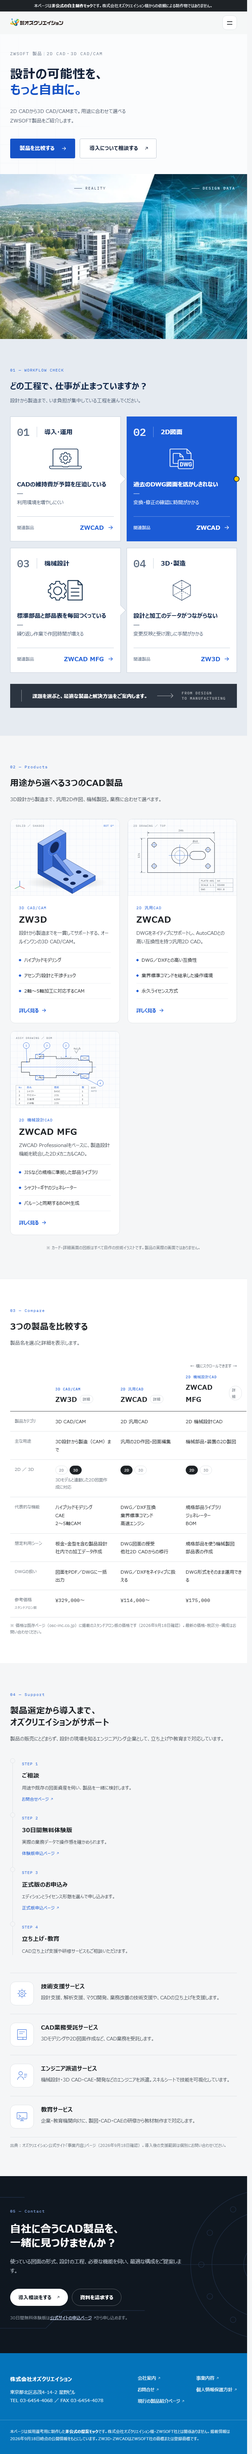
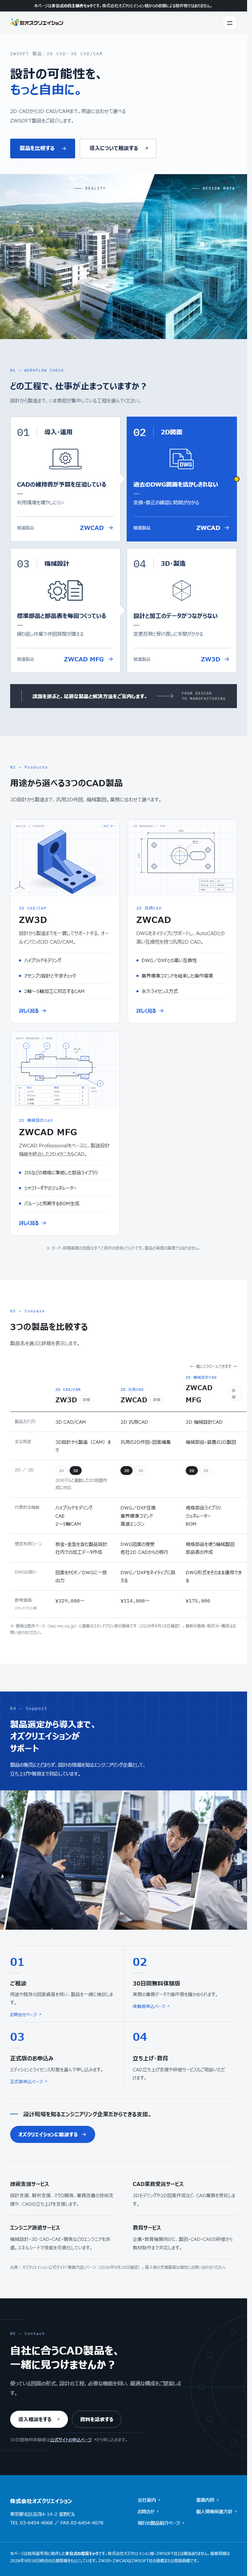
refactor: redesign support section as a photo-led journey band
Replace the icon-card "SaaS template" look of #support with a design
that reads as hands-on, ongoing engineering support rather than a
one-time sale.

- Full-bleed blue/photo band (901px+: 38-42%/58-62% side-by-side with
  a subtle diagonal seam; <=900px: stacked, heading never over photo)
  using an opaque brand-blue (--accent-ink) with a faint CAD grid,
  reusing existing blue/navy/white tokens only
- New support-journey photo strip (assets/support/, responsive
  WebP 640/1000/1440/2000w + JPG, alt text does not claim real staff)
- 4-step process rebuilt as large numbered items (CSS counters) with
  a thin rule, name, description, and text link only where one
  exists - no rounded cards, no icon chips; column rules only between
  items (4-col -> 2x2 at <=900px -> 1-col with number+text side by
  side at <=640px), all inside an <ol> for real order semantics
- New summary bar (existing copy) with the existing .btn.btn-primary
  CTA, still linking to the same contact page
- Existing 4 services kept, restyled as a plain heading/description
  index with thin dividers (2 col -> 1 col at <=640px); their icons
  are dropped per the requested "editorial index" treatment
- Removed the icon-service JS/CSS/SVG (service() in visuals.js,
  .service-fig/.svc-svg) and the old scroll-driven timeline-dot JS
  (data-flow/data-flow-fill) now that no matching markup exists;
  also removed the now-unused .br-md rule (its only caller was the
  old support heading)
[…]

diff --git a/css/style.css b/css/style.css
@@ -102,8 +102,6 @@ ul, ol { padding: 0; list-style: none; }
 }
 .svg-mono { font-family: var(--mono); }
 .svg-jp { font-family: var(--font); }
-.br-md { display: none; }
-@media (min-width: 768px) { .br-md { display: inline; } }
 
 .fig-note {
   font-size: 12px; line-height: 1.7; color: var(--ink-3);
@@ -724,57 +722,127 @@ div.hero-actions.load-in { display: flex; }
 }
 
 /* ---------- Support ---------- */
-.flow { position: relative; margin-bottom: clamp(48px, 7vw, 80px); }
-.flow-track {
-  position: absolute; left: 0; right: 0; top: 7px; height: 1px; background: var(--line);
+.support-band {
+  --support-blue: var(--accent-ink);
+  position: relative;
+  display: flex; align-items: stretch;
+  min-height: clamp(440px, 40vw, 560px);
+  background: var(--support-blue);
 }
-.flow-track span {
-  display: block; height: 100%; background: var(--accent);
-  transform: scaleX(var(--flow, 0)); transform-origin: left;
+.support-band-copy {
+  position: relative; overflow: hidden;
+  flex: 0 1 40%; min-width: 320px;
+  display: flex; align-items: center;
+  padding: clamp(40px, 5vw, 64px) clamp(28px, 4vw, 56px);
 }
-.flow-steps { display: grid; grid-template-columns: repeat(4, minmax(0, 1fr)); gap: 28px; }
-.flow-steps li { position: relative; padding-top: 36px; }
-.flow-steps li::before {
-  content: ""; position: absolute; top: 0; left: 0; width: 15px; height: 15px;
-  border-radius: 50%; background: var(--bg); border: 1.5px solid var(--line);
-  transition: border-color .4s, background-color .4s;
+.support-band-copy::before {
+  content: ""; position: absolute; inset: 0; pointer-events: none;
+  background-image:
+    linear-gradient(rgba(255, 255, 255, .07) 1px, transparent 1px),
+    linear-gradient(90deg, rgba(255, 255, 255, .07) 1px, transparent 1px);
+  background-size: 44px 44px;
+  -webkit-mask-image: linear-gradient(180deg, #000 0%, rgba(0, 0, 0, .5) 70%, transparent 100%);
+  mask-image: linear-gradient(180deg, #000 0%, rgba(0, 0, 0, .5) 70%, transparent 100%);
 }
-.flow-steps li.is-on::before { border-color: var(--accent); background: var(--accent); box-shadow: 0 0 0 5px var(--accent-tint); }
-.flow-no { font-family: var(--mono); font-size: 11.5px; letter-spacing: .12em; color: var(--accent); }
-.flow-steps h3 { margin-top: 6px; font-size: 18px; font-weight: 600; }
-.flow-steps p { margin-top: 8px; font-size: 14px; color: var(--ink-2); line-height: 1.8; }
-.flow-steps a { display: inline-block; margin-top: 10px; font-size: 13px; color: var(--accent); text-decoration: none; }
-.flow-steps a:hover { text-decoration: underline; }
+.support-band-copy-in { position: relative; z-index: 1; max-width: 440px; }
+.support-eyebrow {
+  font-family: var(--mono); font-size: 12.5px; letter-spacing: .16em; color: #a9c3f6;
+}
+.support-band-copy h2 {
+  margin-top: 18px;
+  font-size: clamp(26px, 2.6vw, 36px); line-height: 1.4; font-weight: 700;
+  color: #fff; letter-spacing: .02em; font-feature-settings: "palt" 1;
+  word-break: keep-all; overflow-wrap: anywhere;
+}
+.support-lead {
+  margin-top: 20px; max-width: 30em;
+  font-size: 14.5px; line-height: 1.9; color: rgba(255, 255, 255, .84);
+  word-break: keep-all; overflow-wrap: anywhere;
+}
+.support-band-photo {
+  flex: 1 1 60%; position: relative; margin: 0; overflow: hidden;
+  clip-path: polygon(3.5% 0, 100% 0, 100% 100%, 0 100%);
+}
+.support-band-photo picture,
+.support-band-photo img { display: block; width: 100%; height: 100%; object-fit: cover; object-position: 56% center; }
 
-.services {
-  display: grid; grid-template-columns: repeat(2, minmax(0, 1fr));
+/* ---------- Support: 4-step process ---------- */
+.support-steps {
+  counter-reset: step;
+  display: grid; grid-template-columns: repeat(4, minmax(0, 1fr));
+  border-top: 1px solid var(--line);
+  margin-top: clamp(48px, 6vw, 72px);
+}
+.support-step {
+  counter-increment: step;
+  padding: 32px 28px 8px 0;
+}
+.support-step + .support-step { padding-left: 28px; }
+.support-step:not(:last-child) { border-right: 1px solid var(--line); }
+.support-step-mark {
+  font-size: clamp(32px, 2.9vw, 42px); line-height: 1; font-weight: 700;
+  color: var(--accent); letter-spacing: .01em;
+}
+.support-step-mark::before { content: counter(step, decimal-leading-zero); }
+.support-step-mark::after {
+  content: ""; display: block; width: 32px; height: 2px; margin-top: 18px; background: var(--line);
+}
+.support-step-body h3 { margin-top: 18px; font-size: 17px; font-weight: 700; line-height: 1.5; }
+.support-step-body p { margin-top: 8px; font-size: 14px; line-height: 1.8; color: var(--ink-2); }
+.support-step-body a {
+  display: inline-flex; align-items: center; margin-top: 12px;
+  font-size: 13px; color: var(--accent); text-decoration: none;
+}
+.support-step-body a:hover, .support-step-body a:focus-visible { text-decoration: underline; }
+
+/* ---------- Support: summary bar ---------- */
+.support-summary {
+  display: flex; flex-wrap: wrap; align-items: center; justify-content: space-between; gap: 20px 28px;
+  margin-top: clamp(28px, 4vw, 40px); padding-top: clamp(28px, 4vw, 40px);
   border-top: 1px solid var(--line);
 }
-.service {
-  display: grid; grid-template-columns: 72px 1fr; gap: 22px; align-items: start;
-  padding: 32px 28px 32px 0; border-bottom: 1px solid var(--line);
+.support-summary-text {
+  display: flex; align-items: center; gap: 16px;
+  font-size: 17px; font-weight: 600; color: var(--ink); max-width: 30em;
 }
-.service:nth-child(2n) { padding-left: 28px; padding-right: 0; border-left: 1px solid var(--line); }
-.service-fig {
-  width: 72px; height: 72px; border-radius: 16px; background: var(--paper);
-  border: 1px solid var(--line); color: var(--accent); display: grid; place-items: center;
-}
-.svc-svg { width: 44px; height: 44px; }
-.service h3 { font-size: 18px; font-weight: 600; line-height: 1.5; }
-.service p { margin-top: 8px; font-size: 14.5px; color: var(--ink-2); }
+.support-summary-mark { flex: none; width: 24px; height: 2px; background: var(--accent); }
 
-@media (max-width: 860px) {
-  .flow-track { left: 7px; right: auto; top: 0; bottom: 0; width: 1px; height: auto; }
-  .flow-track span { width: 100%; height: 100%; transform: scaleY(var(--flow, 0)); transform-origin: top; }
-  .flow-steps { grid-template-columns: 1fr; gap: 28px; }
-  .flow-steps li { padding-top: 0; padding-left: 36px; }
-  .services { grid-template-columns: 1fr; }
-  .service, .service:nth-child(2n) { padding: 26px 0; border-left: 0; }
+/* ---------- Support: services index ---------- */
+.services {
+  display: grid; grid-template-columns: repeat(2, minmax(0, 1fr)); column-gap: 56px;
+  margin-top: clamp(56px, 7vw, 80px); padding-top: clamp(28px, 4vw, 40px);
+  border-top: 1px solid var(--line);
 }
-@media (max-width: 480px) {
-  .service { grid-template-columns: 56px 1fr; gap: 16px; }
-  .service-fig { width: 56px; height: 56px; border-radius: 12px; }
-  .svc-svg { width: 34px; height: 34px; }
+.service { padding: 22px 0; border-bottom: 1px solid var(--line); }
+.service h3 { font-size: 16px; font-weight: 700; }
+.service p { margin-top: 8px; font-size: 14px; line-height: 1.8; color: var(--ink-2); }
+
+@media (max-width: 900px) {
+  .support-band { flex-direction: column; min-height: 0; }
+  .support-band-copy { flex: none; width: 100%; min-width: 0; padding: 40px var(--gutter) 36px; }
+  .support-band-copy-in { max-width: 520px; }
+  .support-band-photo {
+    flex: none; width: 100%; aspect-ratio: 16 / 9;
+    clip-path: none;
+  }
+  .support-steps { grid-template-columns: repeat(2, minmax(0, 1fr)); }
+  .support-step:nth-child(2n) { border-right: 0; padding-left: 28px; }
+  .support-step:nth-child(2n+1) { padding-left: 0; }
+  .support-step:nth-child(n+3) { border-top: 1px solid var(--line); padding-top: 28px; }
+}
+@media (max-width: 640px) {
+  .support-band-copy h2 { font-size: 26px; }
+  .support-steps { grid-template-columns: 1fr; border-top: 1px solid var(--line); }
+  .support-step {
+    display: grid; grid-template-columns: 60px 1fr; column-gap: 18px;
+    padding: 26px 0 !important; border-right: 0 !important;
+  }
+  .support-step:not(:first-child) { border-top: 1px solid var(--line); }
+  .support-step-mark { font-size: 28px; }
+  .support-step-mark::after { margin-top: 14px; }
+  .support-summary { flex-direction: column; align-items: flex-start; }
+  .support-summary .btn { width: 100%; }
+  .services { grid-template-columns: 1fr; column-gap: 0; }
 }
 
 /* ---------- Final CTA ---------- */

diff --git a/index.html b/index.html
@@ -186,51 +186,81 @@
 
     <!-- SECTION 07 | Support -->
     <section class="section support" id="support" aria-labelledby="support-title">
-      <div class="container">
-        <header class="section-head reveal">
-          <p class="sec-no">04 — Support</p>
-          <h2 id="support-title">製品選定から導入まで、<wbr><br class="br-md">オズクリエイションが<wbr>サポート</h2>
-          <p class="sec-lead">製品の販売にとどまらず、設計の現場を知るエンジニアリング企業として、立ち上げや教育まで対応しています。</p>
-        </header>
+      <div class="support-band reveal">
+        <div class="support-band-copy">
+          <div class="support-band-copy-in">
+            <p class="support-eyebrow">04 — Support</p>
+            <h2 id="support-title">製品選定から導入まで、<br>オズクリエイションが<br>サポート</h2>
+            <p class="support-lead">製品の販売にとどまらず、設計の現場を知るエンジニアリング企業として、立ち上げや教育まで対応しています。</p>
+          </div>
+        </div>
+        <figure class="support-band-photo">
+          <picture>
+            <source type="image/webp"
+              srcset="assets/support/support-journey-640.webp 640w, assets/support/support-journey-1000.webp 1000w, assets/support/support-journey-1440.webp 1440w, assets/support/support-journey-2000.webp 2000w"
+              sizes="(max-width: 900px) 100vw, 62vw">
+            <img src="assets/support/support-journey-1440.jpg" width="1440" height="540"
+              alt="CAD画面と図面を確認しながら導入支援を行うイメージ" loading="lazy" decoding="async">
+          </picture>
+        </figure>
+      </div>
 
-        <div class="flow reveal" data-flow>
-          <div class="flow-track" aria-hidden="true"><span data-flow-fill></span></div>
-          <ol class="flow-steps">
-            <li><span class="flow-no">STEP 1</span><h3>ご相談</h3><p>用途や既存の図面資産を伺い、製品を一緒に検討します。</p><a href="https://www.osc-inc.co.jp/お問合せ/" target="_blank" rel="noopener">お問合せページ<span class="ext" aria-hidden="true"></span></a></li>
-            <li><span class="flow-no">STEP 2</span><h3>30日間無料体験版</h3><p>実際の業務データで操作感を確かめられます。</p><a href="https://www.osc-inc.co.jp/zwtrial/" target="_blank" rel="noopener">体験版申込ページ<span class="ext" aria-hidden="true"></span></a></li>
-            <li><span class="flow-no">STEP 3</span><h3>正式版のお申込み</h3><p>エディションとライセンス形態を選んで申し込みます。</p><a href="https://www.osc-inc.co.jp/zw_product_apply/" target="_blank" rel="noopener">正式版申込ページ<span class="ext" aria-hidden="true"></span></a></li>
-            <li><span class="flow-no">STEP 4</span><h3>立ち上げ・教育</h3><p>CAD立ち上げ支援や研修サービスもご相談いただけます。</p></li>
-          </ol>
+      <div class="container">
+        <ol class="support-steps">
+          <li class="support-step reveal" style="--i:0">
+            <div class="support-step-mark" aria-hidden="true"></div>
+            <div class="support-step-body">
+              <h3>ご相談</h3>
+              <p>用途や既存の図面資産を伺い、製品を一緒に検討します。</p>
+              <a href="https://www.osc-inc.co.jp/お問合せ/" target="_blank" rel="noopener">お問合せページ<span class="ext" aria-hidden="true"></span></a>
+            </div>
+          </li>
+          <li class="support-step reveal" style="--i:1">
+            <div class="support-step-mark" aria-hidden="true"></div>
+            <div class="support-step-body">
+              <h3>30日間無料体験版</h3>
+              <p>実際の業務データで操作感を確かめられます。</p>
+              <a href="https://www.osc-inc.co.jp/zwtrial/" target="_blank" rel="noopener">体験版申込ページ<span class="ext" aria-hidden="true"></span></a>
+            </div>
+          </li>
+          <li class="support-step reveal" style="--i:2">
+            <div class="support-step-mark" aria-hidden="true"></div>
+            <div class="support-step-body">
+              <h3>正式版のお申込み</h3>
+              <p>エディションとライセンス形態を選んで申し込みます。</p>
+              <a href="https://www.osc-inc.co.jp/zw_product_apply/" target="_blank" rel="noopener">正式版申込ページ<span class="ext" aria-hidden="true"></span></a>
+            </div>
+          </li>
+          <li class="support-step reveal" style="--i:3">
+            <div class="support-step-mark" aria-hidden="true"></div>
+            <div class="support-step-body">
+              <h3>立ち上げ・教育</h3>
+              <p>CAD立ち上げ支援や研修サービスもご相談いただけます。</p>
+            </div>
+          </li>
+        </ol>
+
+        <div class="support-summary reveal">
+          <p class="support-summary-text"><span class="support-summary-mark" aria-hidden="true"></span>設計現場を知るエンジニアリング企業だからできる支援。</p>
+          <a class="btn btn-primary" href="https://www.osc-inc.co.jp/お問合せ/" target="_blank" rel="noopener">オズクリエイションに相談する<svg class="i" viewBox="0 0 24 24" aria-hidden="true"><path d="M5 12h14M13 6l6 6-6 6"/></svg><span class="sr-only">（公式サイト・別タブ）</span></a>
         </div>
 
         <div class="services">
           <article class="service reveal" style="--i:0">
-            <div class="service-fig" data-visual="svc-tech" aria-hidden="true"></div>
-            <div>
-              <h3>技術支援サービス</h3>
-              <p>設計支援、解析支援、マクロ開発、業務改善の技術支援や、CADの立ち上げを支援します。</p>
-            </div>
+            <h3>技術支援サービス</h3>
+            <p>設計支援、解析支援、マクロ開発、業務改善の技術支援や、CADの立ち上げを支援します。</p>
           </article>
           <article class="service reveal" style="--i:1">
-            <div class="service-fig" data-visual="svc-contract" aria-hidden="true"></div>
-            <div>
-              <h3>CAD業務受託サービス</h3>
-              <p>3Dモデリングや2D図面作成など、CAD業務を受託します。</p>
-            </div>
+            <h3>CAD業務受託サービス</h3>
+            <p>3Dモデリングや2D図面作成など、CAD業務を受託します。</p>
           </article>
           <article class="service reveal" style="--i:2">
-            <div class="service-fig" data-visual="svc-staff" aria-hidden="true"></div>
-            <div>
-              <h3>エンジニア派遣サービス</h3>
-              <p>機械設計・3D CAD・CAE・開発などのエンジニアを派遣。スキルシートで技能を可視化しています。</p>
-            </div>
+            <h3>エンジニア派遣サービス</h3>
+            <p>機械設計・3D CAD・CAE・開発などのエンジニアを派遣。スキルシートで技能を可視化しています。</p>
           </article>
           <article class="service reveal" style="--i:3">
-            <div class="service-fig" data-visual="svc-edu" aria-hidden="true"></div>
-            <div>
-              <h3>教育サービス</h3>
-              <p>企業・教育機関向けに、製図・CAD・CAEの研修から教材制作まで対応します。</p>
-            </div>
+            <h3>教育サービス</h3>
+            <p>企業・教育機関向けに、製図・CAD・CAEの研修から教材制作まで対応します。</p>
           </article>
         </div>
         <p class="fig-note reveal">出典：オズクリエイション公式サイト「事業内容」ページ（2026年9月18日確認）。導入後の支援範囲は個別にお問い合わせください。</p>

diff --git a/js/main.js b/js/main.js
@@ -119,7 +119,6 @@
   /* ---------------- hero + misc visuals ---------------- */
   const ctaBg = $('[data-visual="cta-bg"]');
   ctaBg.appendChild(visuals.ctaBg());
-  $$(".service-fig").forEach((el) => el.appendChild(visuals.service(el.dataset.visual)));
 
   /* ---------------- scroll reveal ---------------- */
   const revealIO = new IntersectionObserver(
@@ -152,9 +151,6 @@
   const progress = $(".scroll-progress");
   const hero = $(".hero");
   const heroFrame = $("[data-hero-parallax]");
-  const flow = $("[data-flow]");
-  const flowFill = $("[data-flow-fill]");
-  const flowSteps = $$(".flow-steps li");
   let ticking = false;
 
   function onScroll() {
@@ -170,12 +166,6 @@
       const shift = !reduced() && innerWidth > 960 ? clamp(-hr.top, 0, hr.height) * 0.07 : 0;
       heroFrame.style.setProperty("--hero-py", shift.toFixed(1) + "px");
     }
-
-    // Support flow line
-    const fr = flow.getBoundingClientRect();
-    const fp = clamp((innerHeight * 0.85 - fr.top) / (fr.height + innerHeight * 0.25), 0, 1);
-    flow.style.setProperty("--flow", fp.toFixed(3));
-    flowSteps.forEach((li, i) => li.classList.toggle("is-on", fp >= (i / flowSteps.length) * 0.9 + 0.02));
   }
   const requestScroll = () => {
     if (!ticking) { ticking = true; requestAnimationFrame(onScroll); }

diff --git a/js/visuals.js b/js/visuals.js
@@ -369,20 +369,6 @@
     );
   }
 
-  /* ---------- small service figures ---------- */
-  const svc = {
-    "svc-tech": `<circle cx="32" cy="32" r="13"/><circle cx="32" cy="32" r="5"/><path d="M32 12v6M32 46v6M12 32h6M46 32h6M18 18l4 4M42 42l4 4M46 18l-4 4M18 46l4-4"/>`,
-    "svc-contract": `<rect x="12" y="10" width="40" height="44" rx="2"/><path d="M12 44h40M36 44v10M20 20h24M20 28h16"/>`,
-    "svc-staff": `<circle cx="26" cy="22" r="8"/><path d="M12 50c2-9 8-14 14-14s12 5 14 14"/><path d="M42 26h12M42 33h12M42 40h8"/>`,
-    "svc-edu": `<rect x="10" y="14" width="44" height="28" rx="2"/><path d="M24 50h16M32 42v8M18 24l8 6-8 6M30 36h12"/>`
-  };
-  function service(key) {
-    return el(
-      `<svg xmlns="${NS}" viewBox="0 0 64 64" fill="none" stroke="currentColor" stroke-width="1.6" stroke-linecap="round" stroke-linejoin="round">${svc[key]}</svg>`,
-      "svc-svg"
-    );
-  }
-
   /* ---------- final CTA background drawing ---------- */
   function ctaBg() {
     const L = (d, extra) => `<path d="${d}" pathLength="1" ${extra || ""}/>`;
@@ -411,7 +397,6 @@
     zwcad,
     "zwcad-mfg": mfg,
     ctaBg,
-    service,
     rotateBracket
   };
 })();

diff --git a/README.md b/README.md
@@ -31,7 +31,8 @@ python -m http.server 3011
 index.html          ページ本体（9セクション＋モーダル＋デモダイアログ）
 assets/osc-logo.png オズクリエイション企業ロゴ（ASSETS.md 参照）
 assets/hero/         ヒーローのキービジュアル（WebP 640/1000/1400w ＋ JPG）
-assets/icons/        工程アイコン（課題セクション・ヒーローの製品ショートカット）
+assets/icons/        工程アイコン（課題セクション）
+assets/support/      導入支援セクションの写真ストリップ（WebP 640/1000/1440/2000w ＋ JPG）
 css/style.css       デザイントークン、レイアウト、アニメーション、レスポンシブ
 js/data.js          製品データ（出典：osc-inc.co.jp の各製品ページ）
 js/visuals.js       自作の技術イラスト（SVGを生成。簡易アイソメトリック描画）
@@ -52,6 +53,7 @@ IMPROVEMENTS.md     既存ページからの改善点
   - Escキー／閉じるボタン／背景クリックで閉じる。ネイティブの `<dialog>` を使い、フォーカスの閉じ込めと、閉じた後のフォーカス復帰に対応。背景スクロールも固定する。
   - ZW3Dはスライダーやドラッグでイラストを回転できる。ZWCADのカードはカーソル位置に十字線を表示する。
 - **比較表**：製品名を選ぶと詳細モーダルが開く。スマホでは項目列を固定したまま横スクロールできる。
+- **導入支援**：青い帯（見出し・本文）と写真を左右2カラムで表示（901px以上）。901px未満は縦積みに切り替え、見出しが写真に重ならないようにする。4つの工程は角丸カードにせず、大きな番号・工程名・説明・リンクを細い罫線で区切って横一列（901px以上）／2列（900〜641px）／1列で番号と説明を横並び（640px以下）に並べる。既存の4サービスはアイコンを使わず、見出し・説明・細い罫線だけの一覧にしている。
 - **`prefers-reduced-motion`**（動きを減らす設定）では、アニメーションを最小限にする（フェードのみ）。
 
 ## CTAの接続先

diff --git a/ASSETS.md b/ASSETS.md
@@ -14,6 +14,7 @@
 | 導入支援の線画アイコン4点、最終CTA背景の図面線 | 導入支援、最終CTA | 自作 | 同上 | ○ 使用 |
 | オズクリエイション企業ロゴ（`assets/osc-logo.png`、270×60px PNG） | ヘッダー左上 | osc-inc.co.jp 掲載のロゴ（ユーザー提供の画像） | 利用許諾の記載なし。**採用選考で同社に提示する提案モックとして、ユーザーの指示で使用** | △ 面接での提示のみ。一般公開・デプロイする場合は許諾が必要 |
 | 工程アイコン4点（`assets/icons/icon-cad-operation.png` ほか。透過PNG、高さ160pxに縮小） | 課題セクション（工程別課題ナビゲーション） | ユーザー提供の画像 | ユーザー提供の素材として使用 | ○ 使用（装飾のため alt は空） |
+| 導入支援の写真ストリップ（`assets/support/support-journey-*.webp / .jpg`。4シーンを斜めに構成した合成写真、元データ 2000×750px） | 導入支援セクション右側 | ユーザー提供の画像 | **出典・利用条件は未確認**。公開前に入手元のライセンスを確認すること。alt文言は「実在する社員」と誤認させない表現にしている | △ 提案モックでの表示のみ |
 | フッター背景色 #0474BA | フッター | osc-inc.co.jp の画面から色を抽出 | 色のみ（著作物ではない） | ○ 使用 |
 | Meiryo UI／メイリオ | 本文・見出しの書体 | Windows標準フォント（閲覧者の端末のものを使用。配布・埋め込みなし） | 端末にインストール済みのフォントを参照するだけ | ○ 使用（Macなどではヒラギノ角ゴにフォールバック） |
 | IBM Plex Mono | 図版・ラベルの英数字 | Google Fonts | SIL Open Font License 1.1 | ○ 使用 |
